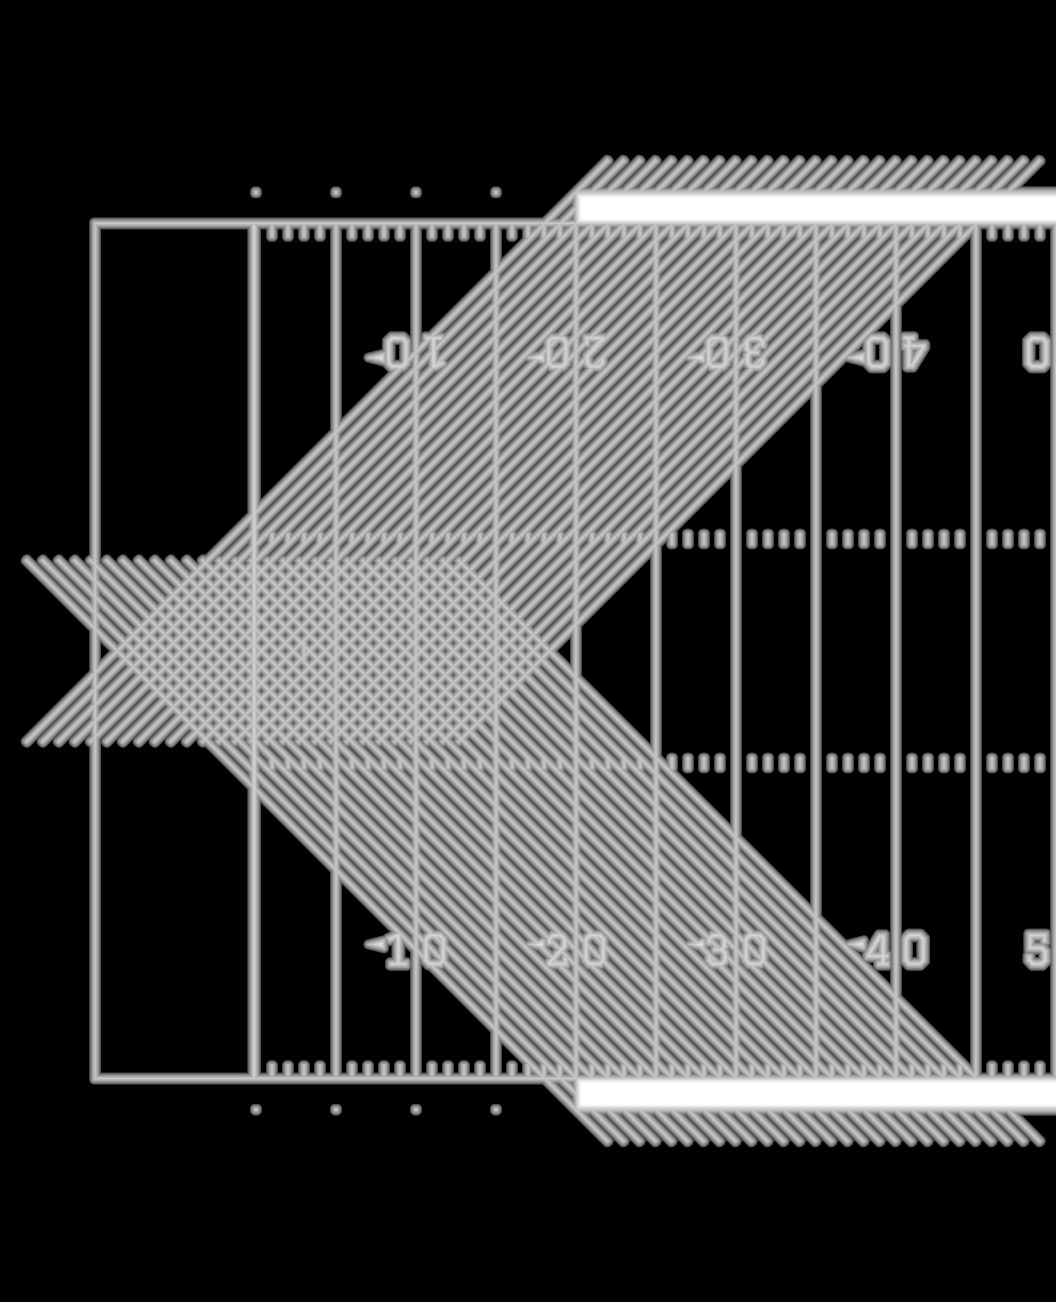
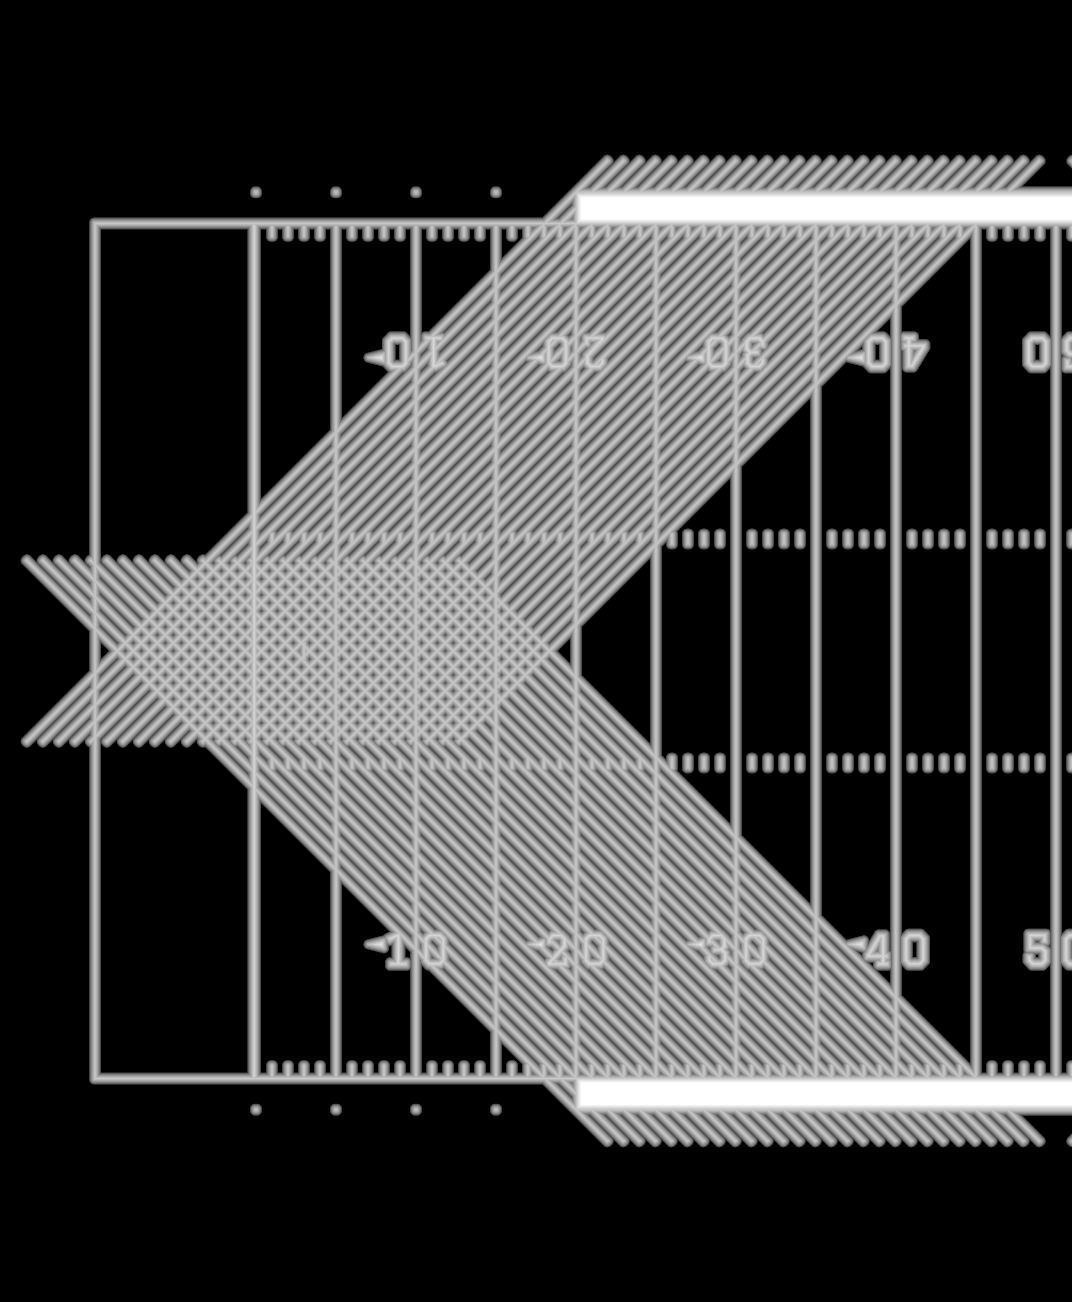
Pad the half paint past midfield, grime the lines with the wear, and add prop shadows
The fifty-yard line showed as two lines with a gap and a seam crossed the
border: a GPU builds a texture's mips as if it wrapped, so a half texture that
stopped at midfield averaged its last columns with its first. It now runs a
yard past. The wear layer draws over the paint as well as the grass, the end
zones let a little grass through, and nets fade instead of reading as fence.

Every static prop gets a contact-shadow decal in Lighting's format, merged
into one mesh; the texture is a stand-in to the same contract until
visual.lighting.response.propShadowDecal merges. Sideline is at 15 parts.

Claude-Session: https://claude.ai/code/session_01GhgGEfAfuwas1ro6oaf8sP

diff --git a/apple/FantasyEdge/Sources/Stadium/Actors/Sideline/SidelineActor.swift b/apple/FantasyEdge/Sources/Stadium/Actors/Sideline/SidelineActor.swift
@@ -24,6 +24,11 @@ final class SidelineActor: StadiumActor {
     private var crewKey = ""
     /// Model geometry in model metres, by model id then material key.
     private var geometry: [String: [String: MeshBuilder]] = [:]
+    /// Each model's footprint on the ground (x, z half extents, metres),
+    /// measured from what stands below `shadow.footprintBelowMetres`.
+    private var footprints: [String: SIMD2<Float>] = [:]
+    /// Faked floodlight shadows under every static prop, one merged decal.
+    private var shadows = MeshBuilder()
 
     init() {
         root.name = "actor.sideline"
@@ -62,8 +67,10 @@ final class SidelineActor: StadiumActor {
         let college = s.league == "college-football"
         var bins: [String: Bin] = [:]
 
+        shadows = MeshBuilder()
         func place(_ model: String, x: Double, z: Double, yaw: Float, side: String) {
             add(model, c, at: SceneMath.local(x: x, y: 0, z: z), yaw: yaw, side: side, into: &bins)
+            shadow(model, c, x: x, z: z)
         }
 
         // Toward the field is model -Z. On the home sideline (z > 0) the field
@@ -103,6 +110,18 @@ final class SidelineActor: StadiumActor {
             }
         }
 
+        if !shadows.isEmpty, let decal = c.assets.texture("sideline.propShadow") {
+            // Lighting's contract (docs/actors/lighting-sky.md): black, the
+            // decal as opacity, scaled by the shared contact occlusion, under
+            // the paint, never additive.
+            var m = PhysicallyBasedMaterial()
+            m.baseColor = .init(tint: .black)
+            m.roughness = .init(floatLiteral: 1)
+            m.blending = .transparent(opacity: .init(scale: Float(V.shadow.strength), texture: StadiumLook.clamped(decal)))
+            let e = shadows.entity("sideline.shadows", m)
+            StadiumLook.ground(e, order: 2)
+            fixed.addChild(e)
+        }
         for (key, bin) in bins.sorted(by: { $0.key < $1.key }) where !bin.mesh.isEmpty {
             let e = bin.mesh.entity("sideline.\(key)", material(bin.material, side: bin.side, c))
             if bin.material == "prop_gold" {
@@ -149,6 +168,23 @@ final class SidelineActor: StadiumActor {
         for (k, bin) in bins.sorted(by: { $0.key < $1.key }) where !bin.mesh.isEmpty {
             crew.addChild(bin.mesh.entity("crew.\(k)", material(bin.material, side: bin.side, c)))
         }
+    }
+
+    // MARK: shadows
+
+    /// A shadow decal under a prop: a quad on the turf about three times its
+    /// footprint, one yaw for every prop so the lobes keep to the banks.
+    private func shadow(_ id: String, _ c: StadiumContext, x: Double, z: Double) {
+        let V = c.look.sideline, S = V.shadow
+        let modelId = id + (c.tabletop ? V.lodSuffix.tabletop : V.lodSuffix.stadium)
+        guard let foot = footprints[modelId] else { return }
+        let yards = Double(max(foot.x, foot.y)) * 2 / V.metresPerYard
+        let size = min(S.maxYards, max(S.minYards, yards * S.footprintScale))
+        let h = size / 2
+        let y = S.lift
+        shadows.quad(SceneMath.local(x: x - h, y: y, z: z + h), SceneMath.local(x: x + h, y: y, z: z + h),
+                     SceneMath.local(x: x + h, y: y, z: z - h), SceneMath.local(x: x - h, y: y, z: z - h),
+                     uv: (SIMD2(0, 0), SIMD2(1, 0), SIMD2(1, 1), SIMD2(0, 1)), normal: SIMD3(0, 1, 0))
     }
 
     // MARK: models into merged meshes
@@ -217,6 +253,14 @@ final class SidelineActor: StadiumActor {
         }
         visit(model)
         geometry[modelId] = out
+        let below = Float(c.look.sideline.shadow.footprintBelowMetres)
+        var lo = SIMD2<Float>(repeating: .greatestFiniteMagnitude), hi = SIMD2<Float>(repeating: -.greatestFiniteMagnitude)
+        for mesh in out.values {
+            for p in mesh.positions where p.y < below {
+                lo = simd_min(lo, SIMD2(p.x, p.z)); hi = simd_max(hi, SIMD2(p.x, p.z))
+            }
+        }
+        if lo.x <= hi.x { footprints[modelId] = simd_max(simd_abs(lo), simd_abs(hi)) }
         return out
     }
 
@@ -232,7 +276,7 @@ final class SidelineActor: StadiumActor {
             // Blended, not cut: a cutout net's mips fall under any threshold
             // and the net vanishes past a few yards; blended it fades to the
             // haze a real net is from the stands.
-            m.blending = .transparent(opacity: .init(texture: StadiumLook.repeating(tex)))
+            m.blending = .transparent(opacity: .init(scale: Float(entry.opacity ?? 1), texture: StadiumLook.repeating(tex)))
         }
         return m
     }

diff --git a/apple/FantasyEdge/Sources/Stadium/Actors/Field/FieldActor.swift b/apple/FantasyEdge/Sources/Stadium/Actors/Field/FieldActor.swift
@@ -14,7 +14,7 @@ import simd
 /// arrows, limit and coaching lines - costs two draw parts, and the edge is
 /// exact at any distance because it is a threshold, not a blurred mask.
 ///
-/// Draw parts: surround 1, stripes 2, wear 1, end zones 2, ring 1, paint 2,
+/// Draw parts: surround 1, stripes 2, end zones 2, ring 1, paint 2, wear 1,
 /// lettering 1 - ten.
 @MainActor
 final class FieldActor: StadiumActor {
@@ -63,7 +63,9 @@ final class FieldActor: StadiumActor {
         canvasQuad(&wear, x0: K.x0, x1: K.x1, lift: L.wear, canvas: K, width: f.width, half: false)
         let wearEntity = wear.entity("turf.wear", SimpleMaterial())
         wearEntity.isEnabled = false
-        add(wearEntity, order: 2)
+        // Over the paint as well as the grass: where the turf is trampled the
+        // lines are too, and a line as clean at the hash as at the wall is CG.
+        add(wearEntity, order: 5)
 
         // End zones: club paint over the grass.
         for (team, x0, x1) in [(s.teams.home, -f.endZone, 0.0), (s.teams.away, f.length, f.length + f.endZone)] {
@@ -116,7 +118,7 @@ final class FieldActor: StadiumActor {
             var m = PhysicallyBasedMaterial()
             m.baseColor = .init(tint: StadiumLook.color(P.white))
             m.roughness = .init(floatLiteral: Float(P.roughness))
-            add(letters.entity("lettering", m), order: 5)
+            add(letters.entity("lettering", m), order: 6)
         }
 
         // The league's maps, loaded once and then handed to the meshes waiting for them.
@@ -171,7 +173,7 @@ final class FieldActor: StadiumActor {
                 return SIMD2(Float((x - K.x0) / (K.x1 - K.x0)), Float((y - K.y0) / (K.y1 - K.y0)))
             }
             let (hx, hy) = turned ? (100 - x, width - y) : (x, y)
-            return SIMD2(Float((hx - K.x0) / (K.halfX1 - K.x0)), Float((hy - K.y0) / (K.y1 - K.y0)))
+            return SIMD2(Float((hx - K.x0) / (K.halfTextureX1 - K.x0)), Float((hy - K.y0) / (K.y1 - K.y0)))
         }
         let p = { (x: Double, y: Double) in SceneMath.local(x: x, y: lift, z: yz(y)) }
         // corners in the order MeshBuilder.floor uses, so the quad faces up

diff --git a/apple/FantasyEdge/Sources/Stadium/Actors/Sideline/SidelineLook.swift b/apple/FantasyEdge/Sources/Stadium/Actors/Sideline/SidelineLook.swift
@@ -21,6 +21,8 @@ extension SceneSpec.Look {
         public let tint: String?
         /// An asset id whose grey channel cuts the surface out (nets).
         public let mask: String?
+        /// Scales the mask, for surfaces that are mostly air.
+        public let opacity: Double?
     }
 
     public struct SidelineLodSuffix: Decodable, Equatable, Sendable {
@@ -51,6 +53,16 @@ extension SceneSpec.Look {
         public let boxOffset: Double
     }
 
+    public struct SidelineShadow: Decodable, Equatable, Sendable {
+        public let footprintScale: Double
+        public let footprintBelowMetres: Double
+        public let minYards: Double
+        public let maxYards: Double
+        /// visual.lighting.response.bowlContactAO, so props and seats share one occlusion.
+        public let strength: Double
+        public let lift: Double
+    }
+
     public struct SidelineLook: Decodable, Equatable, Sendable {
         public let assets: [String: String]
         public let models: [String: String]
@@ -62,6 +74,7 @@ extension SceneSpec.Look {
         public let dressing: [PropPlacement]
         public let endLine: [PropPlacement]
         public let chains: SidelineChains
+        public let shadow: SidelineShadow
     }
 }
 

diff --git a/apple/FantasyEdge/Sources/Stadium/Actors/Field/FieldLook.swift b/apple/FantasyEdge/Sources/Stadium/Actors/Field/FieldLook.swift
@@ -20,6 +20,8 @@ extension SceneSpec.Look {
         public let y0: Double
         public let y1: Double
         public let halfX1: Double
+        /// The half textures run past midfield to here (mip padding).
+        public let halfTextureX1: Double
     }
 
     public struct FieldTurf: Decodable, Equatable, Sendable {

diff --git a/tools/blender/field/make_markings.py b/tools/blender/field/make_markings.py
@@ -44,6 +44,7 @@ W = 160 / 3
 CANVAS = {"x0": -16.0, "x1": 116.0, "y0": -(81.375 - W) / 2, "y1": W + (81.375 - W) / 2}
 HI_PPY = 32                  # texels per yard while rasterising
 OUT_PPY = 16                 # texels per yard shipped
+HALF_PAD_YARDS = 1.0         # the half textures run this far past midfield
 SDF_RANGE_IN = 12.0          # inches of distance either side of an edge
 FONT_FILE = common.FIELD_OUT / "fonts" / "Graduate-Regular.ttf"
 GLYPHS = "ABCDEFGHIJKLMNOPQRSTUVWXYZ0123456789&.'-?"
@@ -466,12 +467,17 @@ def encode(p: Paint, league: str):
     out = common.FIELD_OUT / "markings" / league
     common.write_png(out / "paint_sdf.png", rg)
     half = int(round((50.0 - CANVAS["x0"]) * OUT_PPY))
+    # One yard of overlap past midfield: a GPU builds mips as if the texture
+    # wrapped, so the last columns of a texture that stopped at x = 50 would
+    # average with its first and cut a gap down the fifty at any distance.
+    pad = int(round(HALF_PAD_YARDS * OUT_PPY))
     asym = {}
     for k, c in enumerate(("white", "yellow")):
         full = rg[..., k]
         left, right = full[:, :half], full[:, half:]
         asym[c] = float(np.abs(left - right[::-1, ::-1]).max())
         assert asym[c] < 0.02, f"{league} {c} paint is not half-turn symmetric ({asym[c]:.3f})"
+        left = full[:, :half + pad]
         srgb = np.where(left <= 0.0031308, left * 12.92, 1.055 * np.power(np.clip(left, 0, 1), 1 / 2.4) - 0.055)
         common.write_png(out / f"paint_{c}_half.png", srgb)
     return rg, asym, half
@@ -500,7 +506,8 @@ def main():
                      "y": "yards from the near sideline, 0..53.333"},
             "canvas": {**CANVAS, "texelsPerYard": OUT_PPY, "width": rg.shape[1], "height": rg.shape[0],
                        "rowOrder": "top row is the far edge (y1)"},
-            "half": {"x0": CANVAS["x0"], "x1": 50.0, "width": half, "height": rg.shape[0],
+            "half": {"x0": CANVAS["x0"], "x1": 50.0 + HALF_PAD_YARDS, "drawnTo": 50.0,
+                     "width": half + int(round(HALF_PAD_YARDS * OUT_PPY)), "height": rg.shape[0],
                      "encoding": "sRGB-encoded linear distance; decode as colour, threshold 0.5",
                      "otherHalf": "rotate 180 degrees about (50, 26.667): u' = 1 - u, v' = 1 - v",
                      "maxAsymmetry": asym},

diff --git a/tools/blender/field/make_shadow.py b/tools/blender/field/make_shadow.py
@@ -1,0 +1,41 @@
+"""Write the sideline's stand-in prop shadow decal, in Lighting's format.
+
+Lighting owns the real one (`visual.lighting.response.propShadowDecal`,
+docs/actors/lighting-sky.md): 512 px, black RGB, alpha the shadow, four soft
+lobes at 35/145/215/325 degrees, one per bank quadrant, plus a contact core,
+alpha capped at 0.7. Until that branch merges, Sideline points at this file,
+made to the same contract so the switch is a path change.
+
+Grey single channel (the alpha), sRGB-encoded so a colour-decoding loader
+reads back the linear value. u runs along +x, v along -z; lobe 0 points to
++x, -z.
+
+    blender -b --factory-startup --python tools/blender/field/make_shadow.py
+"""
+from __future__ import annotations
+
+import math
+import pathlib
+import sys
+
+sys.path.insert(0, str(pathlib.Path(__file__).resolve().parent))
+import common  # noqa: E402
+import numpy as np  # noqa: E402
+
+N = 512
+y, x = (np.mgrid[0:N, 0:N] + 0.5) / N * 2 - 1          # x: +u, y: rows top-down
+v = -y                                                  # v up
+r = np.hypot(x, v)
+alpha = 0.7 * np.exp(-(r / 0.16) ** 2)                  # contact core
+for deg in (35, 145, 215, 325):
+    a = math.radians(deg)
+    ux, uv = math.cos(a), math.sin(a)
+    along = x * ux + v * uv
+    across = -x * uv + v * ux
+    lobe = np.exp(-((along - 0.42) / 0.36) ** 2 - (across / 0.17) ** 2) * (along > -0.05)
+    alpha = np.maximum(alpha, 0.34 * lobe)
+alpha *= np.clip((1 - r) / 0.12, 0, 1)                  # zero at the rim
+alpha = np.clip(alpha, 0, 0.7)
+srgb = np.where(alpha <= 0.0031308, alpha * 12.92, 1.055 * np.power(alpha, 1 / 2.4) - 0.055)
+common.write_png(common.SIDELINE_OUT / "textures" / "shadow_props.png", srgb)
+print("SHADOW", float(alpha.max()))

diff --git a/docs/actors/field-sideline.md b/docs/actors/field-sideline.md
@@ -1,0 +1,42 @@
+# Field & Sideline: critique log
+
+Owner: the Field & Sideline specialist. Shots are taken with `tools/blender/field/shoot.sh` (which takes a simulator slot, runs `tools/lookdev.py --only field-level sideline-props redzone-trails tabletop`, then frees the slot) into `.work/shots/field-*`. Blender review renders come from `tools/blender/field/review_render.py`.
+
+## Sources of truth
+- **NFL:** 2026 Official Playing Rules, Rule 1 and the field diagram notes.
+- **NCAA:** 2026 Football Rules and Interpretations, Rule 1-2 (FR-19..21).
+- **Paint values:** `tools/blender/field/rules.py` quotes each one against its rule.
+- **Scene geometry:** `fantasyedge/scene.py` `RULES`. Team areas and upright heights were corrected to the books in `968ce92`.
+
+## Baseline (`.work/shots/field-before`, before any Field or Sideline work)
+- **Field (26 parts, 32k triangles):** each yard number was its own system-font text mesh. The paint was quads with a generic worn mask. The stripe was only a tint. There were no hashes at the NFL width, no arrows, no limit or coaching lines, and system-font end-zone lettering.
+- **Sideline (8 parts, 0.9k triangles):** box benches, tube goal posts, box pylons. The chains belonged to Broadcast.
+
+## Iteration 1 (`field-iter1b`)
+**Done:**
+- **Turf:** a baked blade tile, two stripe meshes wearing the with- and against-the-mower normals, and the league's wear map over the canvas.
+- **Paint:** two half-canvas distance fields cut at 0.5.
+- **Lettering:** the scene's art layout in Graduate.
+- **Sideline:** 20 Blender props merged per material.
+
+**Numbers:** field 10 parts, 1.1k triangles. Sideline 19 parts, 21k triangles.
+
+**Critique:**
+- **Paint:** reads right from row 16. Numerals, arrows and hashes are crisp, and the far numerals read from their own sideline.
+- **Stripe:** almost invisible from the stands; the normals alone are too subtle under this lighting.
+- **Field-level seat:** it sat behind a bench. Chrome-bright bench legs filled the frame.
+- **Field-goal net:** the poles showed but the net vanished. Cutout mips fall under the threshold.
+- **Sideline parts:** 19, over the 15 budget. Pads, bench backs, tents and cooler lids were four team-tinted bins per club.
+- **Shot timing:** the stadium was still loading at a 9 s settle, so the harness came back black. Stadium shots now settle 25 s.
+
+## Iteration 2 (`field-iter2`)
+**Changes:**
+- Benches pair off either side of a 14 yd centre gap.
+- Nets blend instead of cutting out.
+- Stripe tint and roughness contrast go up.
+- Steel is rougher.
+- All team-tinted surfaces are one bin per club.
+- Cable runs are dropped.
+- Contact-shadow decals follow Lighting's contract (a stand-in texture at the same spec, `actors/sideline/textures/shadow_props.png`, to repoint at `visual.lighting.response.propShadowDecal` when that merges).
+
+(critique appended below after the shots)
